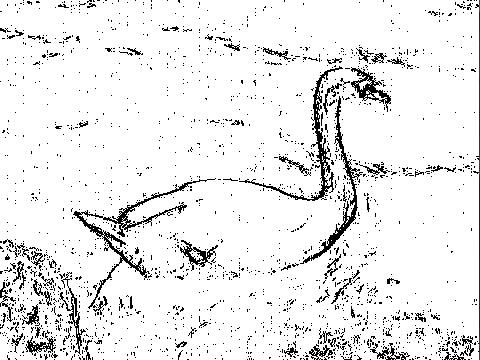
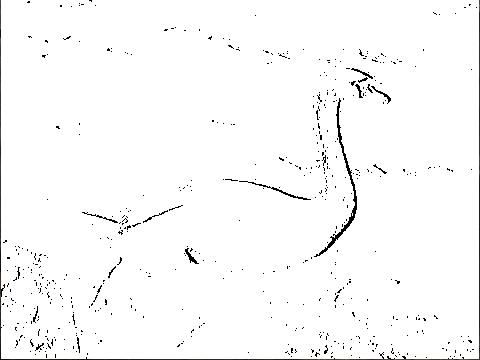
Made it actually work and added negate, grayscale, and edge

diff --git a/src/Picture.java b/src/Picture.java
@@ -246,7 +246,6 @@ public class Picture extends SimplePicture
 		this.write("collage.jpg");
 	}
 
-
 	/** Method to show large changes in color 
 	 * This method traverses this picture and changes to pixels to 
 	 * black and white, depending on the color to each pixel's right.
@@ -305,7 +304,19 @@ public class Picture extends SimplePicture
 		PictureTester.main(args);
 	}
 
-	
-	
 
+	public void fixUnderwater() {
+		Pixel[][] pixels = this.getPixels2D();
+		Pixel pixel = null;
+		for (int row = 0; row < pixels.length; row++) {
+			for (int col = 0; col < pixels[0].length; col++) {
+				if (pixels[row][col].getBlue() < 200) {
+					pixel = pixels[row][col];
+					pixel.setRed(pixel.getRed() + 25);
+					pixel.setBlue(pixel.getBlue() - 100);
+					pixel.setGreen(pixel.getGreen() - 100);
+				}
+			}
+		}
+	}
 } // this } is the end of class Picture, put all new methods before this

diff --git a/src/PictureTester.java b/src/PictureTester.java
@@ -24,14 +24,14 @@ public class PictureTester {
 		 * 
 		 */
 		 // testZeroBlue();
-		// testKeepOnlyBlue();
-		// testKeepOnlyRed();
+//		 testKeepOnlyBlue();
+//		 testKeepOnlyRed();
 //		testKeepOnlyGreen();
-//		 testNegate();
-//		 testGrayscale();
+		 testNegate();
+		 testGrayscale();
 //		 testEdgeDetection();
 		// testFaceDetect();
-		 testFixUnderwater();
+//		 testFixUnderwater();
 		// testMirrorVertical();
 		// testMirrorTemple();
 		// testMirrorArms();
@@ -367,6 +367,7 @@ public class PictureTester {
 	 */
 	private static void testFixUnderwater() {
 		Picture pic = new Picture("images/water.jpg");
+		pic.fixUnderwater();
 		pic.explore();
 	}
 
